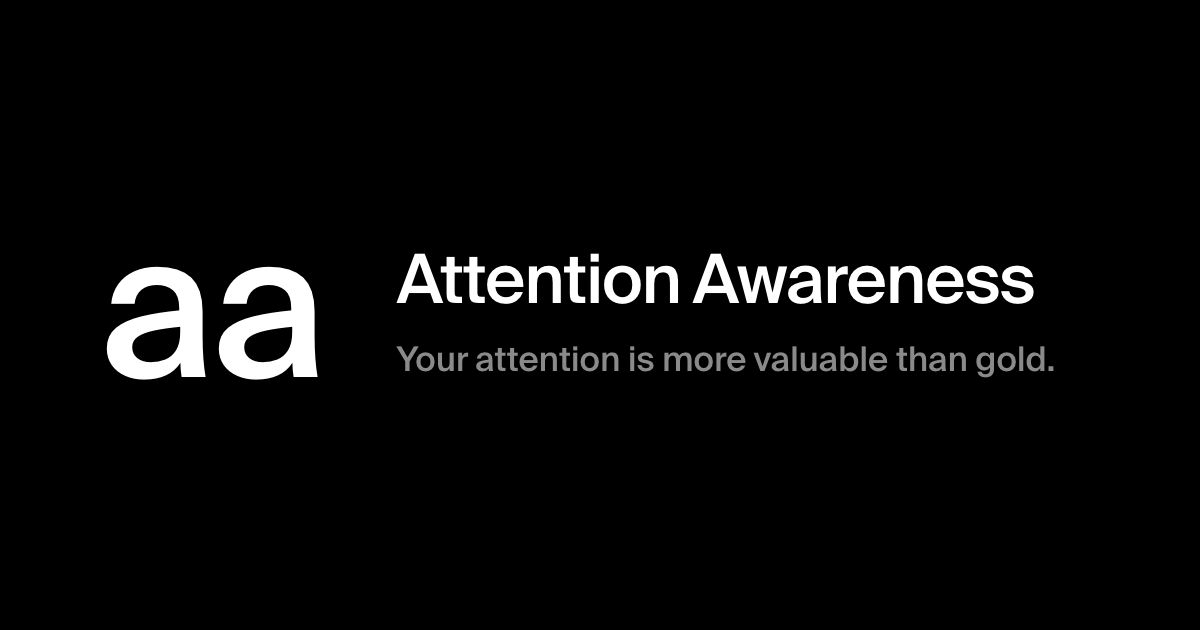
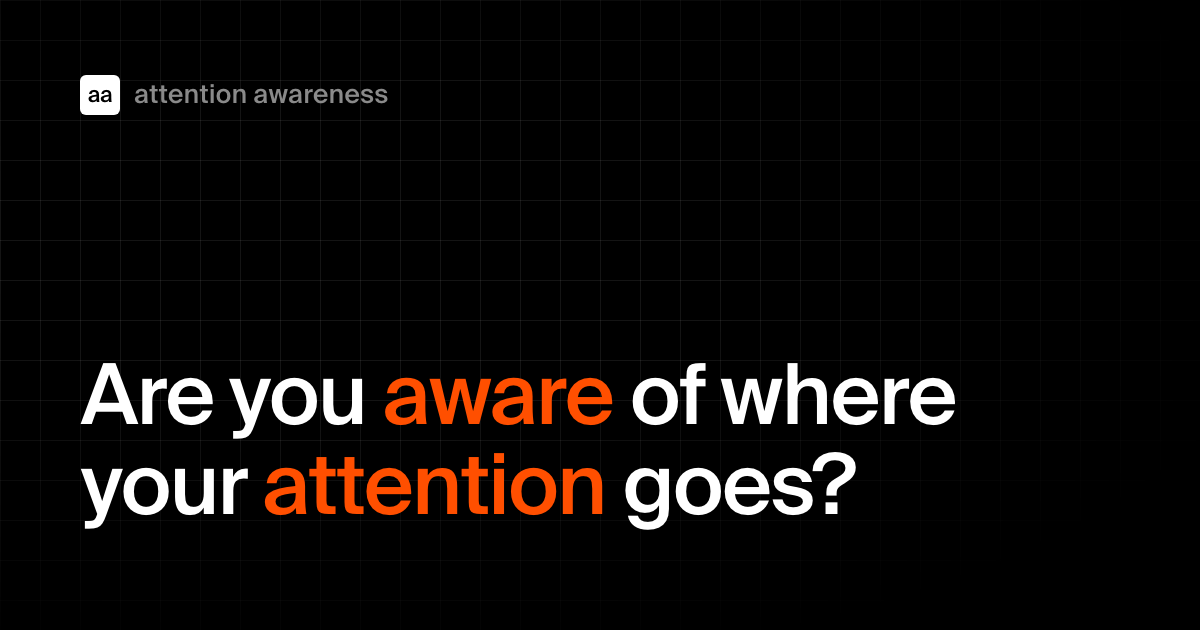
feat(web): share image asks where your attention goes
Claude-Session: https://claude.ai/code/session_01Hcpk6x7mttknCbg5AedLSn

Changed region(s): [[0.0617, 0.4222, 0.8942, 0.8444], [0.3083, 0.3921, 0.8633, 0.4825], [0.0617, 0.1206, 0.3392, 0.181]]

diff --git a/scripts/render-brand.ts b/scripts/render-brand.ts
@@ -25,7 +25,6 @@ const font = path.join(root, 'packages/ui/fonts/SuisseIntl-Medium.woff2');
 
 /** The brand, in prose. Only the mark itself is lowercase. */
 const SITE_NAME = 'Attention Awareness';
-const TAGLINE = 'Your attention is more valuable than gold.';
 const MARK = 'aa';
 const BLACK = '#000000';
 const WHITE = '#ffffff';
@@ -80,13 +79,26 @@ const iconPage = (size: number) => `<style>${face}${reset}
   width: ${size}px;
 }</style><div class="mark">${MARK}</div>`;
 
+/** The question the share card asks, with the two words that carry it. */
+const OG_QUESTION = `Are you <em>aware</em> of where your <em>attention</em> goes?`;
+const ORANGE = '#ff4f00';
+/** The page's graph paper: the same 40px ruling, the same faint white line. */
+const OG_LINE = 'rgba(255, 255, 255, 0.08)';
+
 const ogPage = `<style>${face}${reset}
-body { align-items: center; display: flex; gap: 72px; height: 630px; padding: 0 100px; width: 1200px; }
-.mark { font-size: 200px; letter-spacing: -0.02em; line-height: 1; }
-.lines { display: flex; flex-direction: column; gap: 20px; }
-.name { font-size: 68px; letter-spacing: -0.03em; line-height: 1.05; }
-.tagline { color: ${GRAY}; font-size: 34px; font-weight: 400; letter-spacing: -0.01em; line-height: 1.3; }
-</style><div class="mark">${MARK}</div><div class="lines"><div class="name">${SITE_NAME}</div><div class="tagline">${TAGLINE}</div></div>`;
+body { height: 630px; overflow: hidden; position: relative; width: 1200px; }
+.grid {
+  background-image: linear-gradient(${OG_LINE} 1px, transparent 1px), linear-gradient(90deg, ${OG_LINE} 1px, transparent 1px);
+  background-size: 40px 40px;
+  inset: 0;
+  -webkit-mask-image: radial-gradient(ellipse at 30% 40%, black 30%, transparent 80%);
+  position: absolute;
+}
+.brand { align-items: center; color: ${GRAY}; display: flex; font-size: 26px; gap: 14px; left: 80px; position: absolute; top: 72px; }
+.mark { align-items: center; background: ${WHITE}; border-radius: 6px; color: ${BLACK}; display: flex; font-size: 22px; height: 40px; justify-content: center; letter-spacing: -0.02em; width: 40px; }
+.question { bottom: 96px; font-size: 84px; left: 80px; letter-spacing: -0.03em; line-height: 1.08; position: absolute; right: 80px; text-wrap: balance; }
+em { color: ${ORANGE}; font-style: normal; }
+</style><div class="grid"></div><div class="brand"><div class="mark">${MARK}</div>${SITE_NAME.toLowerCase()}</div><div class="question">${OG_QUESTION}</div>`;
 
 const browser = await chromium.launch();
 const page = await browser.newPage({ deviceScaleFactor: 1 });
